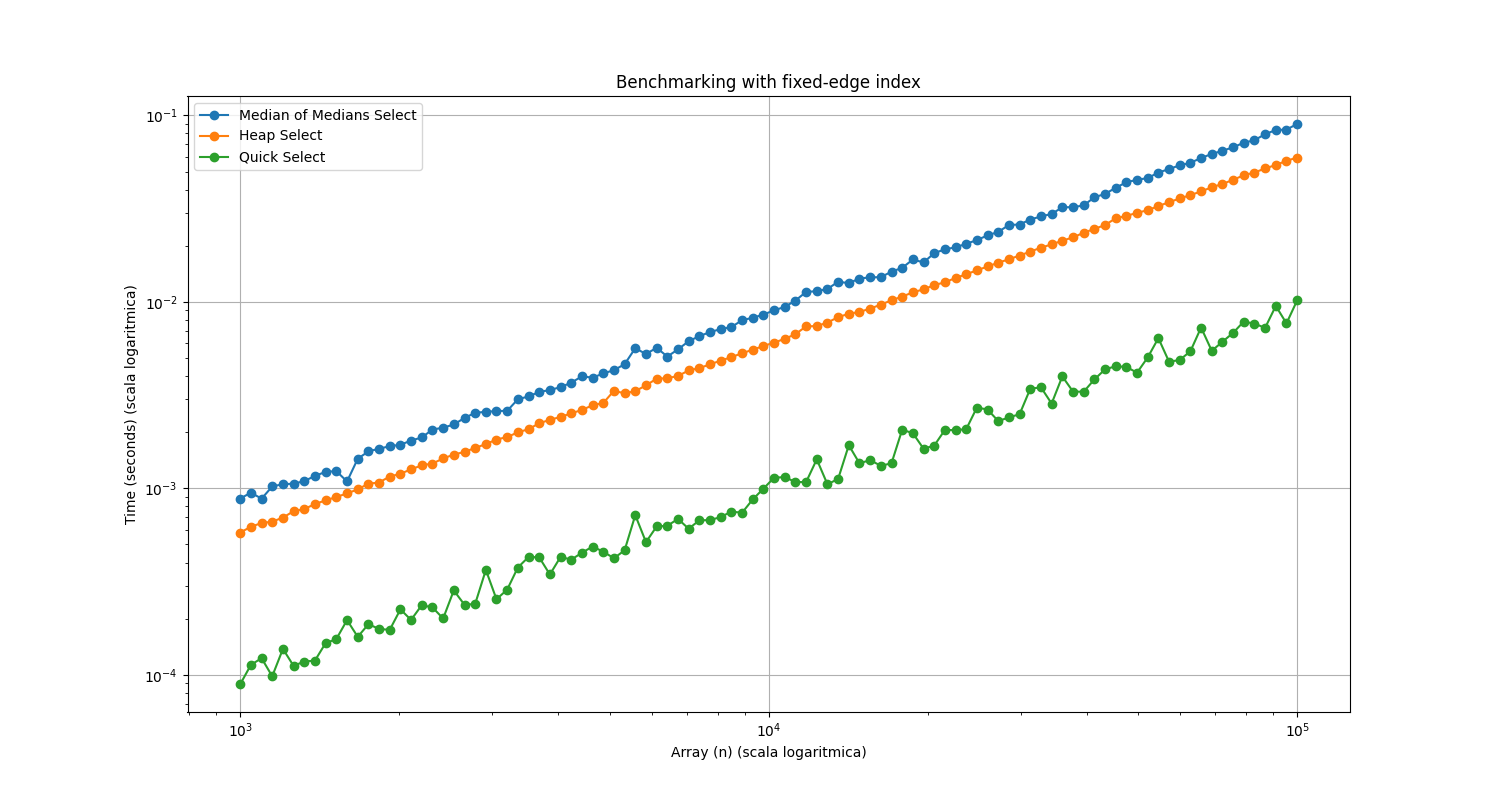
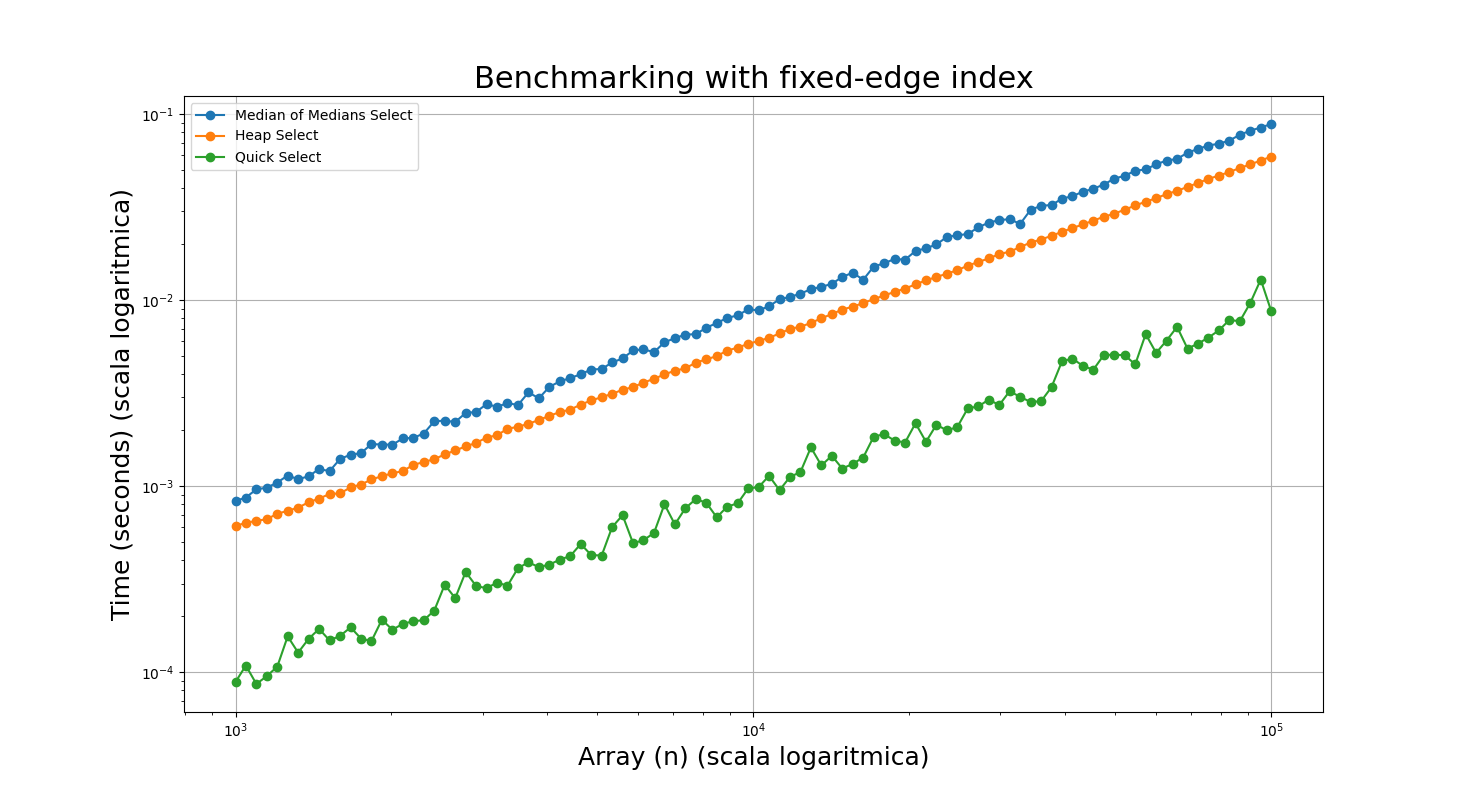
Modified sizes graphs

diff --git a/graphs_maker.py b/graphs_maker.py
@@ -75,7 +75,6 @@ def compute_points_MoM(*, nmin, nmax, iters):
             n,
             benchmark(median_of_medians_select, n, nmax, minimum_measurable_time, iter=i, k_values=k_values),
             benchmark(median_of_medians_np, n, nmax, minimum_measurable_time, iter=i, k_values=k_values),
-            benchmark(median_of_medians_p, n, nmax, minimum_measurable_time, iter=i, k_values=k_values),
         ))
     dict["fixed"]=points
     return dict
@@ -85,17 +84,15 @@ def plotMoM(points, type_k):
         n,
         times_median_of_medians_select,
         times_median_of_medians_np,
-        times_median_of_medians_n,
     ) = zip(*points)
 
     # Grafico
     plt.figure(figsize=(15, 8))
     plt.plot(n,times_median_of_medians_select,"-o",label="Median of Medians Quasi in Place",)
     plt.plot(n, times_median_of_medians_np, "-o", label="Median of Medians Non Place")
-    plt.plot(n, times_median_of_medians_n, "-o", label="Median of Medians Place")
-    plt.xlabel("Array (n)")
-    plt.ylabel("Time (seconds)")
-    plt.title(f"Benchmarking with {type_k} index")
+    plt.xlabel("Array (n)",fontsize=18)
+    plt.ylabel("Time (seconds)",fontsize=18)
+    plt.title(f"Benchmarking with {type_k} index",fontsize=22)
     plt.legend()
     plt.grid(True)
     plt.show()
@@ -103,12 +100,11 @@ def plotMoM(points, type_k):
     plt.figure(figsize=(15, 8))
     plt.plot(n,times_median_of_medians_select,"-o",label="Median of Medians Quasi in Place",)
     plt.plot(n, times_median_of_medians_np, "-o", label="Median of Medians Non Place")
-    plt.plot(n, times_median_of_medians_n, "-o", label="Median of Medians Place")
     plt.xscale("log")
     plt.yscale("log")
-    plt.xlabel("Array (n) (scala logaritmica)")
-    plt.ylabel("Time (seconds) (scala logaritmica)")
-    plt.title(f"Benchmarking with {type_k} index")
+    plt.xlabel("Array (n) (scala logaritmica)",fontsize=18)
+    plt.ylabel("Time (seconds) (scala logaritmica)",fontsize=18)
+    plt.title(f"Benchmarking with {type_k} index",fontsize=22)
     plt.legend()
     plt.grid(True)
     plt.show()
@@ -170,15 +166,15 @@ def plot(points, type_k):
         times_heap_select,
         times_quick_select,
     ) = zip(*points)
-
+    info_x = "Index K" if type_k=="n=10000 whit varying k" else "Array (n)"
     # Grafico
     plt.figure(figsize=(15, 8))
     plt.plot(n,times_median_of_medians_select,"-o",label="Median of Medians Select",)
     plt.plot(n, times_heap_select, "-o", label="Heap Select")
     plt.plot(n, times_quick_select, "-o", label="Quick Select")
-    plt.xlabel("Array (n)")
-    plt.ylabel("Time (seconds)")
-    plt.title(f"Benchmarking with {type_k} index")
+    plt.xlabel(f"{info_x}", fontsize=18)
+    plt.ylabel("Time (seconds)", fontsize=18)
+    plt.title(f"Benchmarking with {type_k} index", fontsize=22)
     plt.legend()
     plt.grid(True)
     plt.show()
@@ -194,9 +190,9 @@ def plot(points, type_k):
     plt.plot(n, times_quick_select, "-o", label="Quick Select")
     plt.xscale("log")
     plt.yscale("log")
-    plt.xlabel("Array (n) (scala logaritmica)")
-    plt.ylabel("Time (seconds) (scala logaritmica)")
-    plt.title(f"Benchmarking with {type_k} index")
+    plt.xlabel(f"{info_x} (scala logaritmica)", fontsize=18)
+    plt.ylabel("Time (seconds) (scala logaritmica)", fontsize=18)
+    plt.title(f"Benchmarking with {type_k} index",fontsize=22)
     plt.legend()
     plt.grid(True)
     plt.show()

diff --git a/ADS_relazione.tex b/ADS_relazione.tex
@@ -122,7 +122,7 @@ Dai grafici soprastanti e da quelli precedente mostrati si rende ancora più evi
 \subsection{Caso n fissato e k variato}
 \begin{figure}[h]
     \centering
-    \includegraphics[width=.83\textwidth]{graphs/n_fixex_n.png}
+    \includegraphics[width=.83\textwidth]{graphs/n_fixed_n.png}
     \includegraphics[width=.83\textwidth]{graphs/n_fixed_2xlog.png}
 \end{figure}
 Da questi particolari grafici con k varia seguendo una serie geometrica, che permette di distribuire i suoi valori in maniera esponenziale, mentre la lunghezza del vettore è fissa a n=10000. Si noti in maniera ancora più marcata della totale dipendenza dell'andamento di $Heap\ Select$ al valore k, difatto l'algoritmo mostra un comportamento monotono crescente per $k\in[0,\frac{n}{2}]$ raggiungendo un massimo a $k=\frac{n}{2}$. 
@@ -134,5 +134,5 @@ Successivamente l'algoritmo mostra un andamento monotono decrescente per $k\in[\
     \includegraphics[width=.83\textwidth]{graphs/MoMs_n.png}
     \includegraphics[width=.83\textwidth]{graphs/MoMs_2xlog.png}
 \end{figure}
-Come si può notare i tre algoritmi hanno degli andamenti molto simili sopratutto le due versioni place e quasi in place. Invece la versione non in place a causa delle chiamate ricorsive e dell'utilizzo di due array supplementari si rivela essere meno prestante al crescere della lunghezza dell'array.\\
+Come si può notare i due algoritmi hanno degli andamenti molto simili. La versione non in place a causa delle chiamate ricorsive e dell'utilizzo di due array supplementari si rivela essere meno prestante al crescere della lunghezza dell'array.\\
 \end{document}
